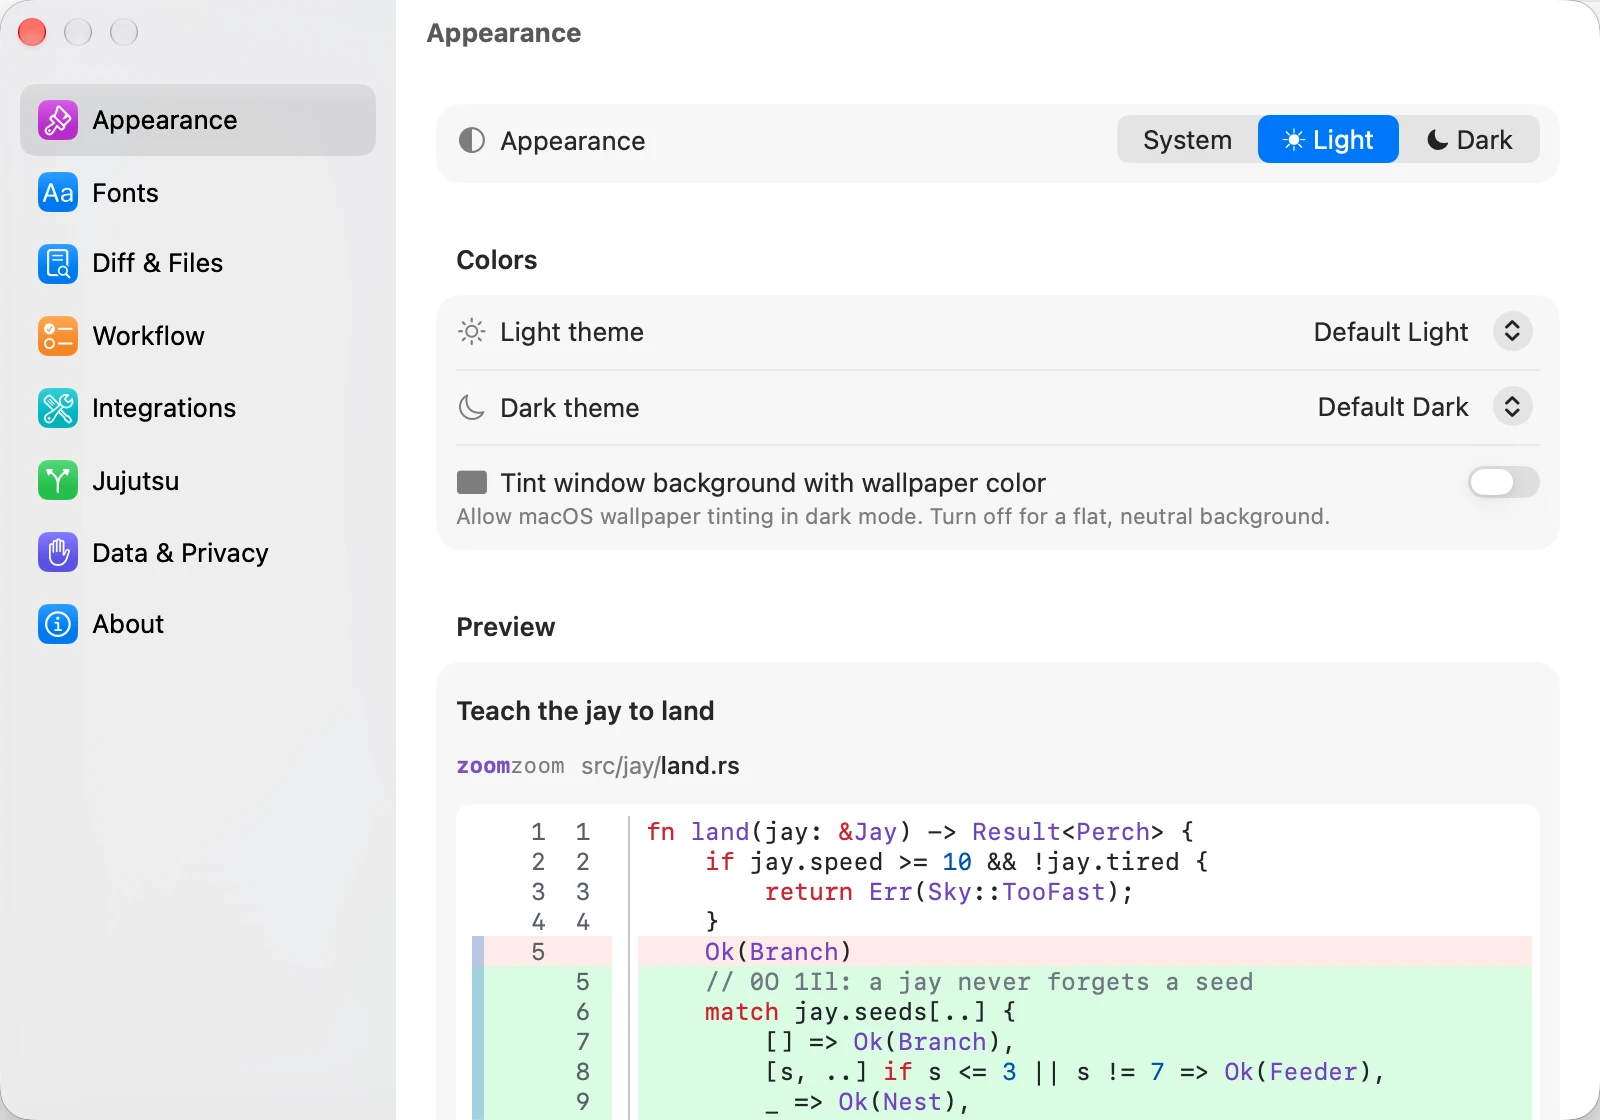
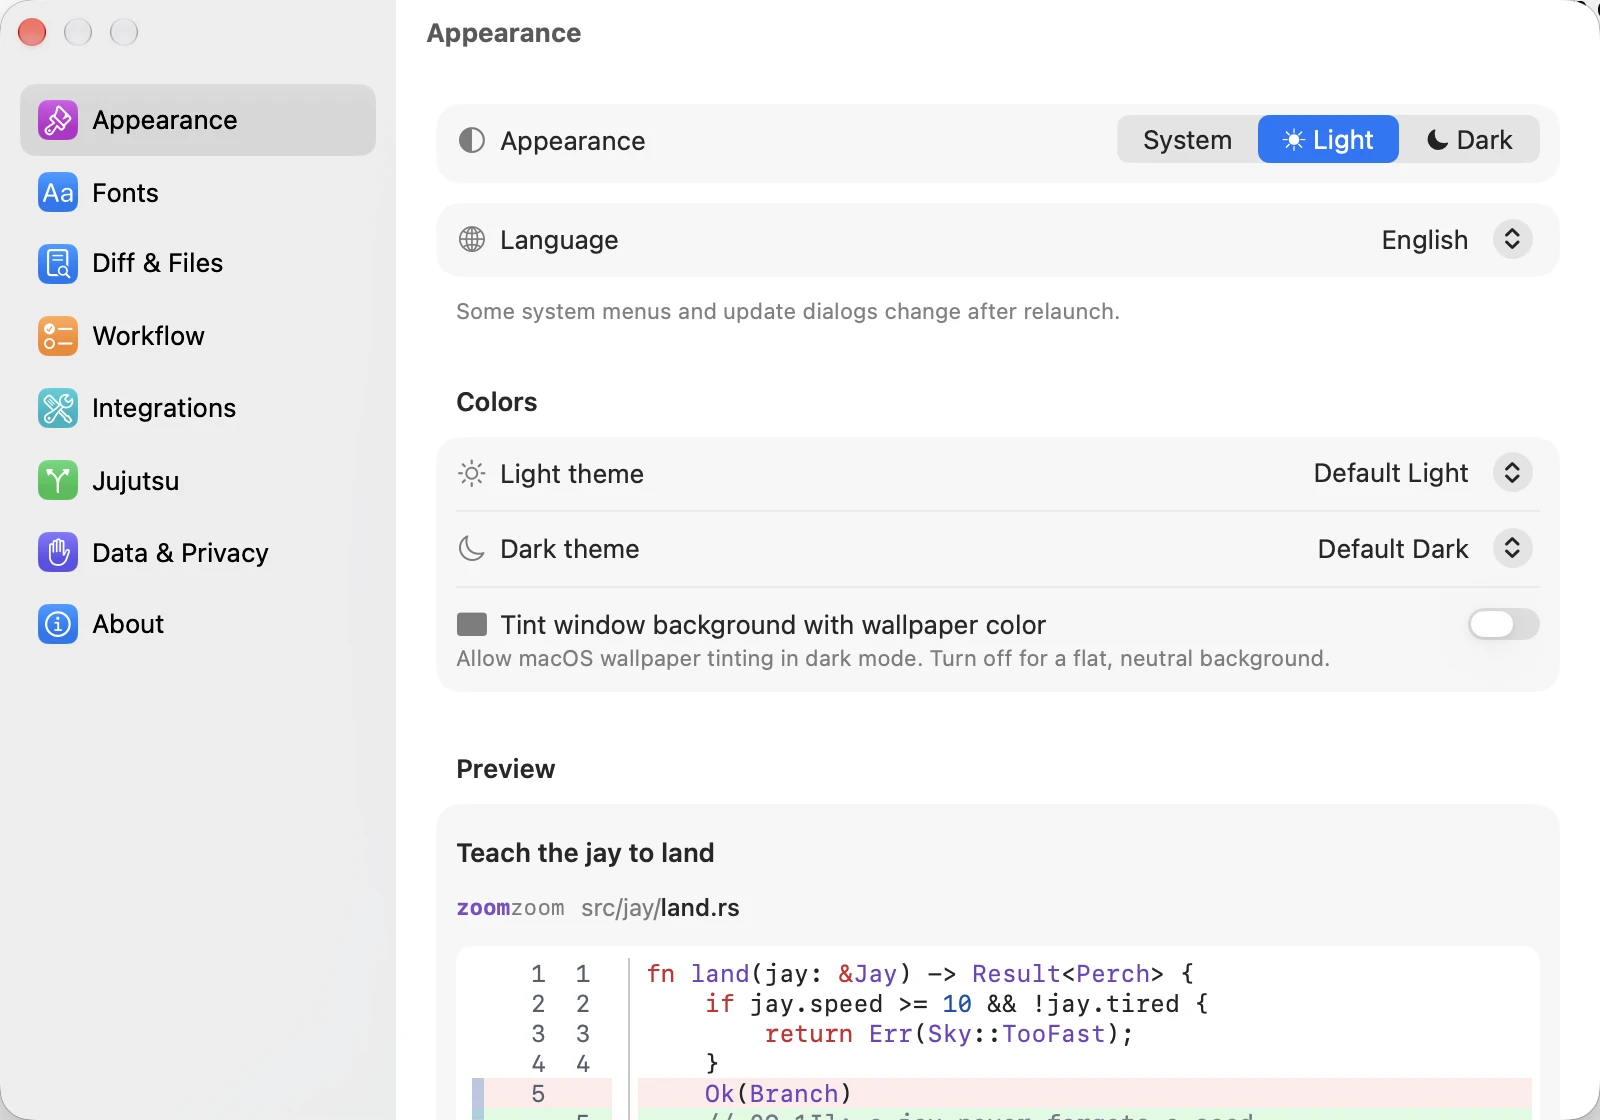
docs: refresh beta screenshots with focused framing
Refresh Appearance and conflict resolution in both themes. Give Appearance a full-width guide figure, show a real edit in the conflicted demo, and reject captures with no diff text. Capture native windows with a focused conflict crop and record the framing rule for future releases.

diff --git a/docs/guide.html b/docs/guide.html
@@ -360,8 +360,8 @@
     trustExitCode = true</code></pre>
       <p>Use <code>git difftool --dir-diff</code> for one multi-file comparison or <code>git mergetool</code> for conflicts.</p>
       <figure class="shot">
-        <img class="dark-only" src="imgs/conflict-resolution-dark.webp" alt="Conflict banner with whole-file choices" width="2560" height="1300" loading="lazy">
-        <img class="light-only" src="imgs/conflict-resolution.webp" alt="Conflict banner with whole-file choices" width="2560" height="1300" loading="lazy">
+        <img class="dark-only" src="imgs/conflict-resolution-dark.webp" alt="Conflict banner with whole-file choices" width="1850" height="1000" loading="lazy">
+        <img class="light-only" src="imgs/conflict-resolution.webp" alt="Conflict banner with whole-file choices" width="1850" height="1000" loading="lazy">
         <figcaption>The conflict banner offers whole-file choices and an entry point to resolve the file.</figcaption>
       </figure>
       <figure class="shot">
@@ -442,16 +442,16 @@
         <li>Commit avatars can come from GitHub or Gravatar. Multi-window mode keeps one window per repository and deduplicates URL-scheme launches.</li>
         <li>The Help menu also opens the bundled JayJay Help Book, the full web user guide, jj documentation, and issue reporting.</li>
       </ul>
+      <figure class="shot">
+        <img class="dark-only" src="imgs/settings-appearance-dark.webp" alt="JayJay Settings appearance panel" width="1600" height="1120" loading="lazy">
+        <img class="light-only" src="imgs/settings-appearance.webp" alt="JayJay Settings appearance panel" width="1600" height="1120" loading="lazy">
+        <figcaption>Appearance selects the app language, light and dark diff palettes, wallpaper tinting, and a live preview.</figcaption>
+      </figure>
       <div class="shot-grid">
         <figure class="shot">
           <img class="dark-only" src="imgs/settings-fonts-dark.webp" alt="JayJay Settings fonts panel" width="480" height="336" loading="lazy">
           <img class="light-only" src="imgs/settings-fonts.webp" alt="JayJay Settings fonts panel" width="480" height="336" loading="lazy">
           <figcaption>Fonts groups interface and code fonts, line spacing, ligatures, and a diff preview.</figcaption>
-        </figure>
-        <figure class="shot">
-          <img class="dark-only" src="imgs/settings-appearance-dark.webp" alt="JayJay Settings appearance panel" width="1600" height="1120" loading="lazy">
-          <img class="light-only" src="imgs/settings-appearance.webp" alt="JayJay Settings appearance panel" width="1600" height="1120" loading="lazy">
-          <figcaption>Appearance selects light and dark diff palettes, wallpaper tinting, and a live preview.</figcaption>
         </figure>
         <figure class="shot">
           <img class="dark-only" src="imgs/settings-diff-dark.webp" alt="JayJay Settings diff panel" width="480" height="336" loading="lazy">

diff --git a/shell/mac/Tests/JayJayUITests/Screenshots/ScreenshotScene.swift b/shell/mac/Tests/JayJayUITests/Screenshots/ScreenshotScene.swift
@@ -38,13 +38,15 @@ class ScreenshotScene: SceneBase {
             "-jayjay.tintWindowWithWallpaper", "NO",
             "-jayjay.fontFamily", "system",
             "-jayjay.fontSize", "12",
+            "-jayjay.interfaceFontFamily", "system",
+            "-jayjay.interfaceFontSize", "12",
             "-jayjay.treeFileList", "NO",
             "-jayjay.sideBySideDiff", "NO",
             "-jayjay.hasCompletedOnboarding", "YES",
-            "-jayjay.windowFrame.repo-window", "{{80, 80}, {1600, 960}}",
-            "-jayjay.sidebarWidth", "",
-            "-jayjay.secondaryPaneWidth", "",
-            "-jayjay.fileColumnWidth", "",
+            "-jayjay.windowFrame.repo-window", "{{80, 80}, {1100, 700}}",
+            "-jayjay.sidebarWidth", "240",
+            "-jayjay.secondaryPaneWidth", "220",
+            "-jayjay.fileColumnWidth", "220",
             "-jayjay.sidebarHidden", "NO",
             "-commandPalette.frameOrigin", "{0, 0}"
         ]
@@ -93,8 +95,30 @@ class ScreenshotScene: SceneBase {
         guard let cropped = cgImage.cropping(to: crop.integral) else {
             return XCTFail("Could not crop the capture for \(name)")
         }
+        attach(name, image: NSImage(cgImage: cropped, size: frame.size))
+    }
+
+    func capture(_ name: String, window: XCUIElement, frame: CGRect? = nil) {
+        settle()
+        let image = window.screenshot().image
+        guard let frame else {
+            return attach(name, image: image)
+        }
+        guard let cgImage = image.cgImage(forProposedRect: nil, context: nil, hints: nil) else {
+            return XCTFail("Window capture failed for \(name)")
+        }
+        let bounds = window.frame
+        let scale = CGFloat(cgImage.width) / bounds.width
+        let crop = CGRect(x: (frame.minX - bounds.minX) * scale, y: (frame.minY - bounds.minY) * scale, width: frame.width * scale, height: frame.height * scale)
+        guard let cropped = cgImage.cropping(to: crop.integral) else {
+            return XCTFail("Could not crop the window capture for \(name)")
+        }
+        attach(name, image: NSImage(cgImage: cropped, size: frame.size))
+    }
+
+    private func attach(_ name: String, image: NSImage) {
         let suffix = Self.appearance == "dark" ? "-dark" : ""
-        let attachment = XCTAttachment(image: NSImage(cgImage: cropped, size: frame.size))
+        let attachment = XCTAttachment(image: image)
         attachment.name = "\(name)\(suffix)"
         attachment.lifetime = .keepAlways
         add(attachment)

diff --git a/shell/mac/Tests/JayJayUITests/Screenshots/ReleaseScreenshots.swift b/shell/mac/Tests/JayJayUITests/Screenshots/ReleaseScreenshots.swift
@@ -92,7 +92,11 @@ final class ReleaseScreenshots: ScreenshotScene {
         let app = try XCTUnwrap(app)
         selectChange("merge rail and ferry", in: app)
         selectFile("src/timetable.rs", in: app)
-        capture("conflict-resolution", frame: mainFrame)
+        XCTAssertTrue(app.textViews[AID.Diff.text].firstMatch.waitForExistence(timeout: 10), "Conflict diff text missing")
+        let window = mainWindow(app)
+        let left = app.element(AID.FileList.column).frame.maxX + 1
+        let frame = CGRect(x: left, y: window.frame.minY + 52, width: window.frame.maxX - left, height: 500)
+        capture("conflict-resolution", window: window, frame: frame)
     }
 
     func testConflictResolver() throws {
@@ -211,7 +215,7 @@ final class ReleaseScreenshots: ScreenshotScene {
         let app = try XCTUnwrap(app)
         keyStroke(",", modifiers: [.command])
         selectSettingsPage("appearance", in: app)
-        capture("settings-appearance", frame: settingsWindow(in: app).frame)
+        capture("settings-appearance", window: settingsWindow(in: app))
     }
 
     func testSettingsIntegrations() throws {

diff --git a/agents/release.md b/agents/release.md
@@ -67,6 +67,8 @@ Do not edit `docs/appcast.xml` in this pass; step 4 owns it.
 
 `just shell::screenshots` rebuilds the `flightdeck` demo repository (`scripts/screenshot-fixture.sh`) and the agent-workspace variant behind the Repo Overview capture (`scripts/demo-fixture.sh`, also `just shell::demo`), runs the `ReleaseScreenshots` and `OverviewScreenshots` UI tests once in light and once in dark appearance, and writes `docs/imgs/<name>.webp` and `<name>-dark.webp`; pass test names such as `testHome` or `OverviewScreenshots/testOverview` to refresh a subset. The screenshot app uses the core `mock` feature’s in-memory forge sign-in store, so captures never read saved JayJay forge sign-ins or show login-keychain prompts. Normal and release builds regenerate their own FFI library. The tests skip unless the recipe sets `JAYJAY_SCREENSHOT_APPEARANCE`, so CI never runs them. XCUITest drives the real app, so keep the Mac unlocked and stay available: the first run can stop at "Timed out while enabling automation mode" until you approve UI automation. Review every image before committing, update the `width`/`height` attributes in `docs/guide.html` and the Help Book when a capture's size changed, then rebuild the Help Book with `just shell::help`. `docs/imgs/home.png` is a separate hero image; refresh it from `home.webp` when the main window changes. Load [Website](website.md) for public pages and [Help Book](help-book.md) for the embedded help bundle.
 
+Refresh only scenes affected by the release. Resize the window, adjust its panes, or use a focused crop so the changed controls and text are readable at the guide’s normal width, with little blank space. Inspect the captures in the rendered guide as well as at their source resolution.
+
 ## Release Notes
 
 `releases/<version>.html` is mandatory, covers only the SwiftUI macOS app, and remains the sole source for the Sparkle update prompt. When the release range has user-visible GPUI changes, write `releases/<version>-gpui.md`; publication adds a Linux GPUI section to the GitHub release body without exposing those notes to Sparkle. Missing or empty SwiftUI notes abort publication. Missing GPUI notes do not block publication while AppImage artifacts remain asynchronous.
